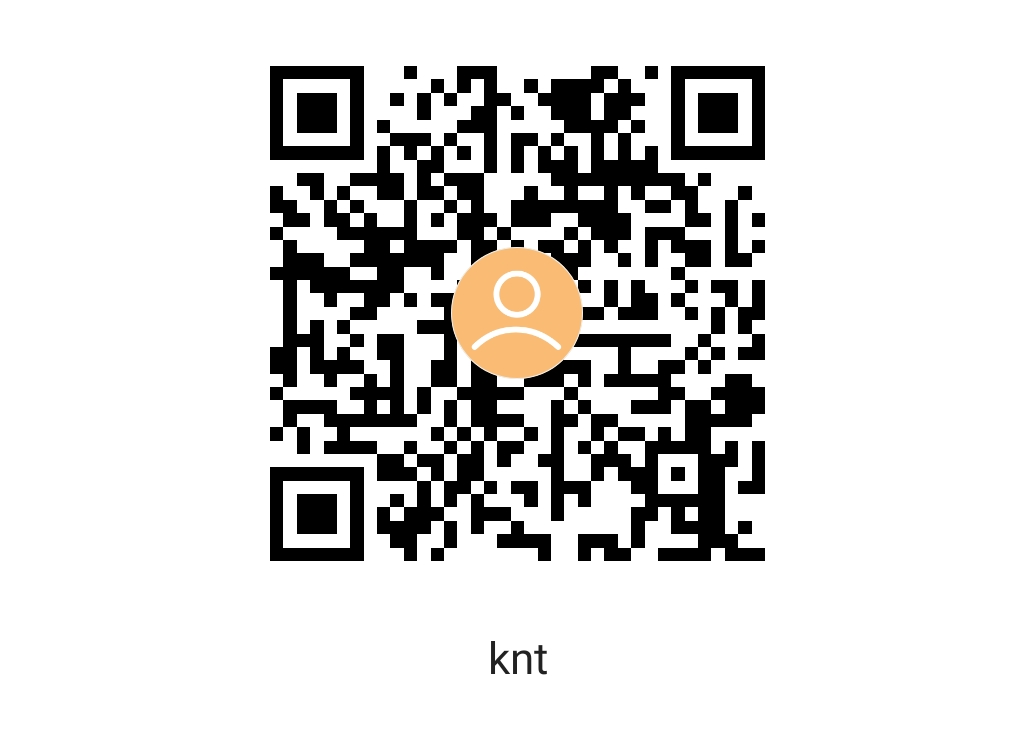
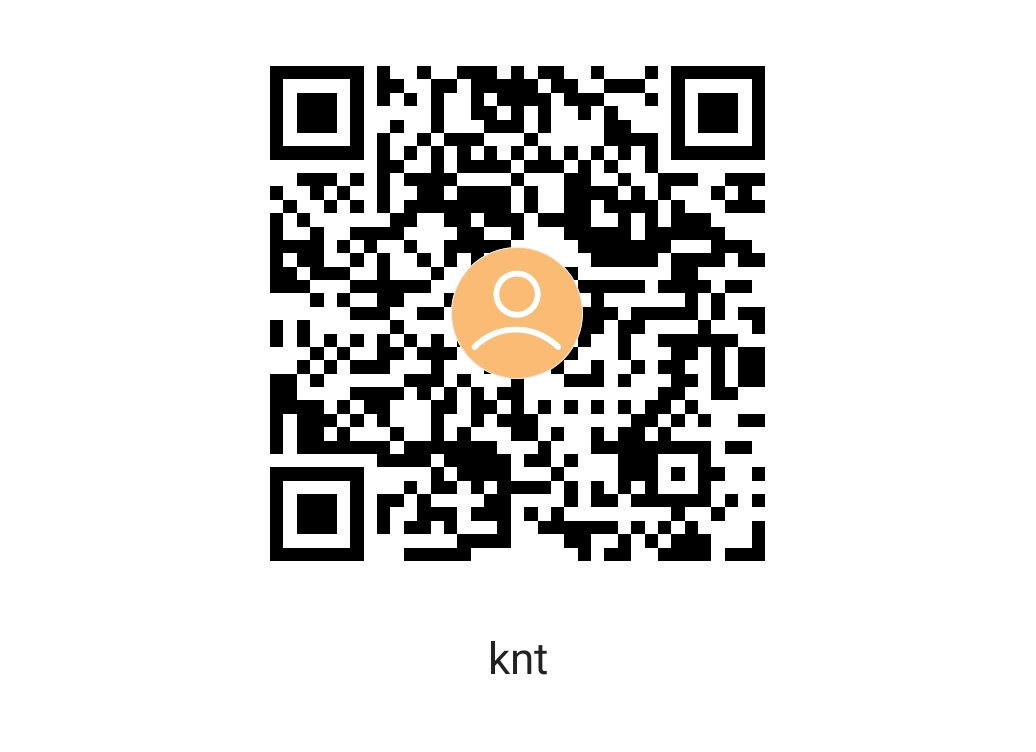
fix: update paypay QR code.

Changed region(s): [[0.2471, 0.0918, 0.7413, 0.7646]]

diff --git a/src/App.tsx b/src/App.tsx
@@ -204,10 +204,21 @@ const MainContent: React.FC<{ mobile?: boolean }> = ({ mobile }) => {
             こちら
           </a>
           をご参考にお願いします。
+          <br />
+          また、送金は
+          <strong>「PayPayマネー」</strong>の残高からお願いいたします。 詳しくは
+          <a
+            href="https://paypay.ne.jp/help/c0048/"
+            target="_blank"
+            rel="noopener noreferrer"
+          >
+            こちら
+          </a>
+          をご確認ください。
         </Paragraph>
         <Paragraph center>
           <a
-            href="https://qr.paypay.ne.jp/YL2uKGbMZL1GgXtC"
+            href="https://qr.paypay.ne.jp/G6ACV3SqISErL4qo"
             target="_blank"
             rel="noopener noreferrer"
           >
